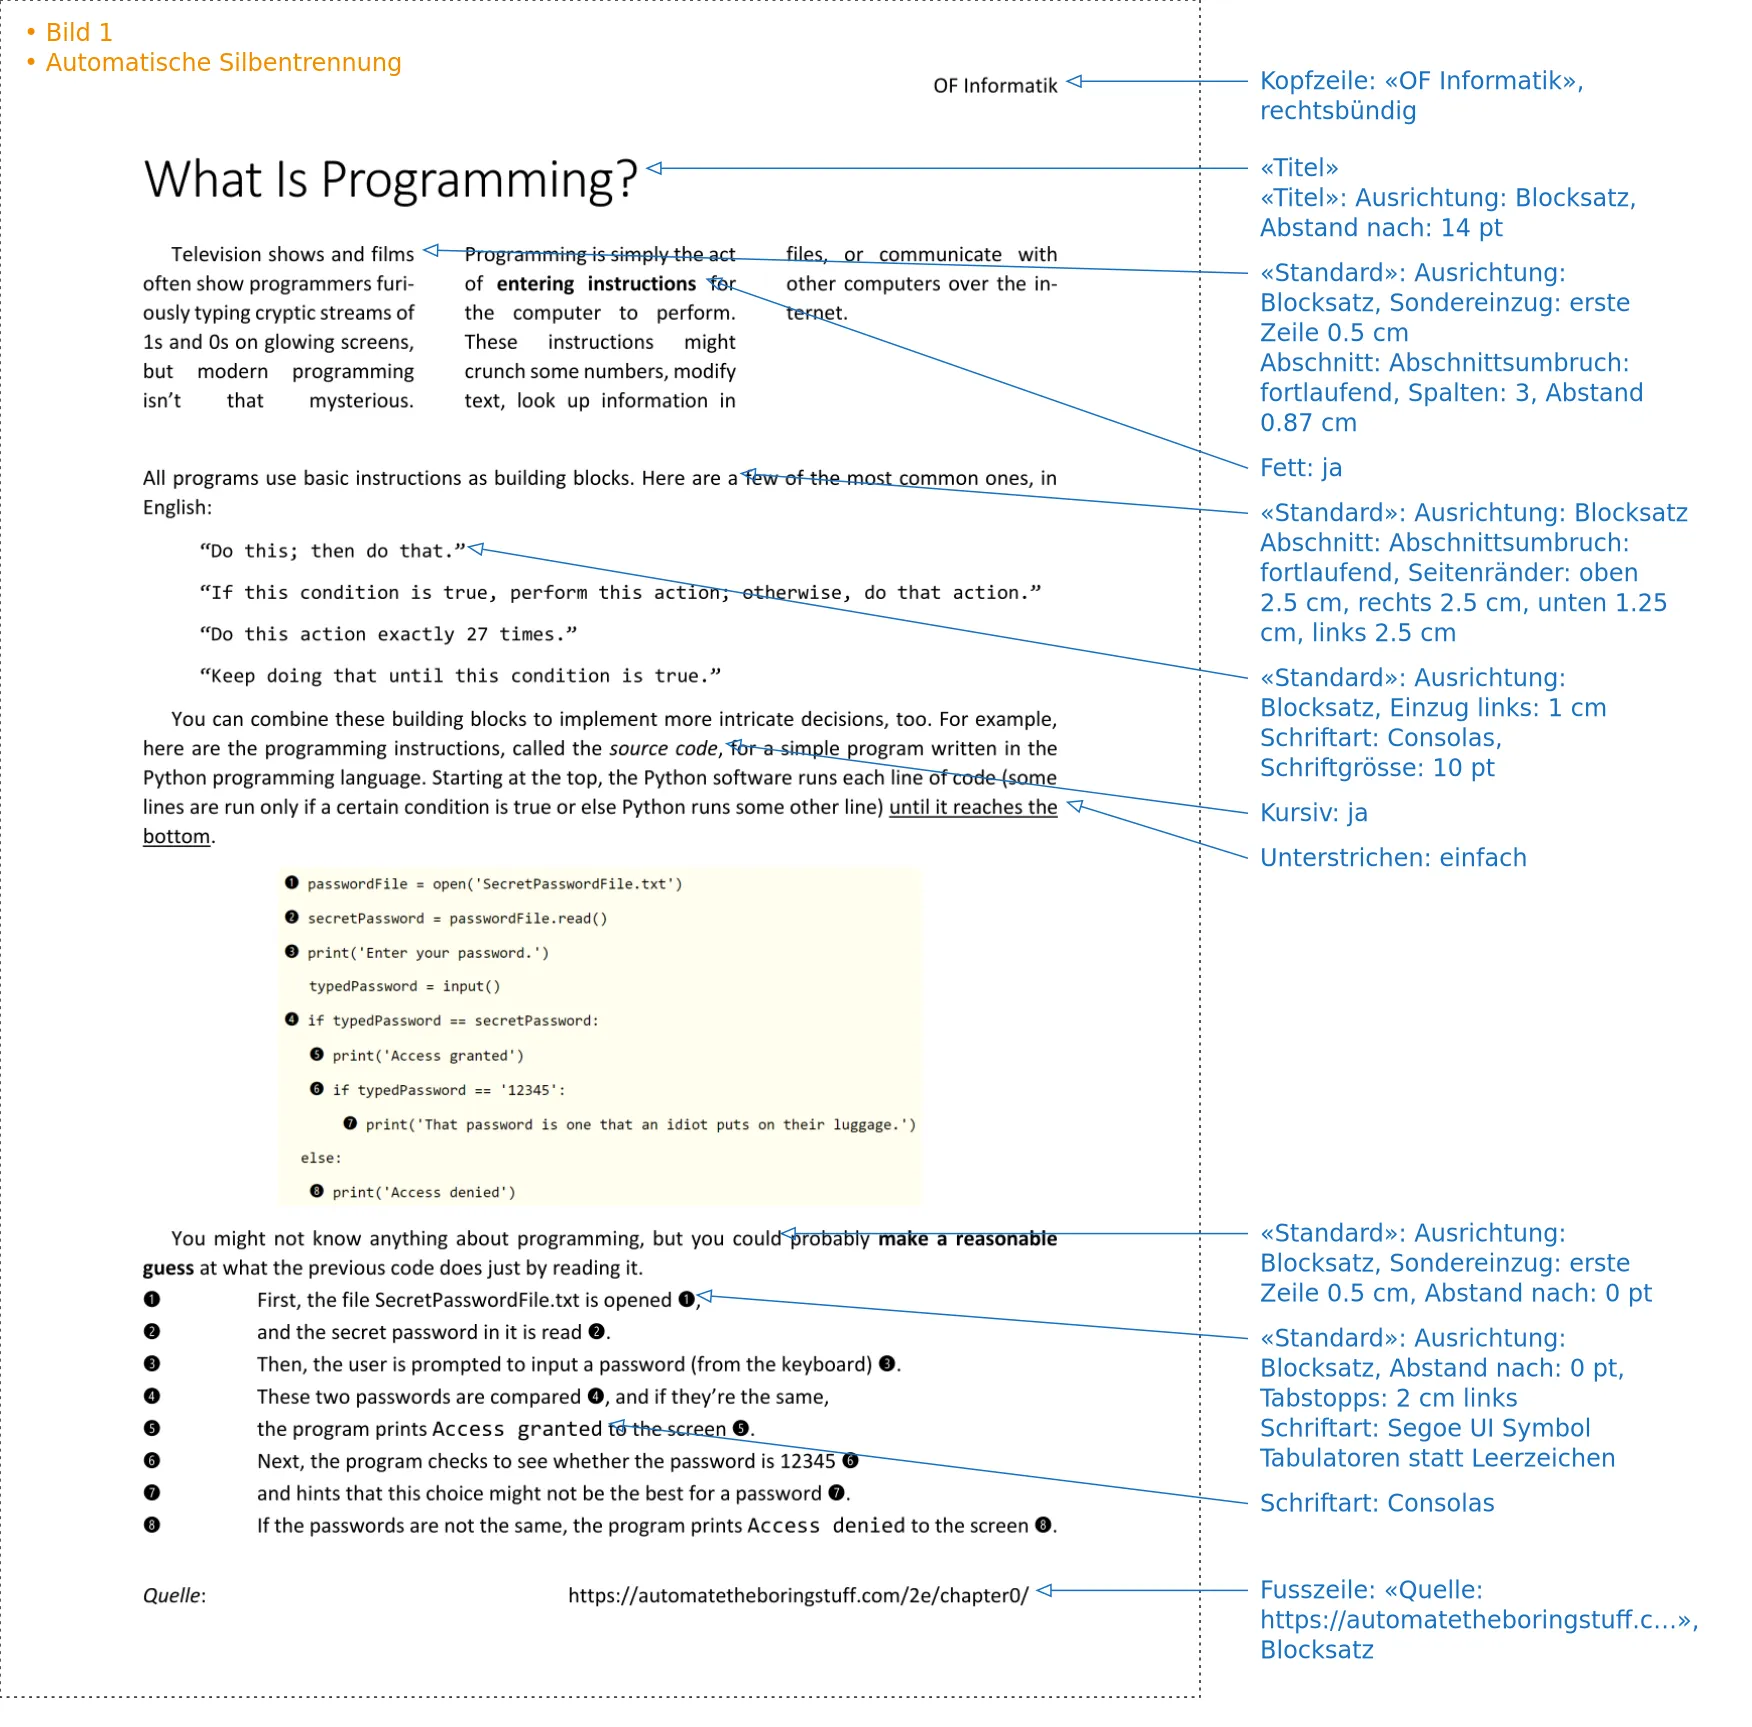
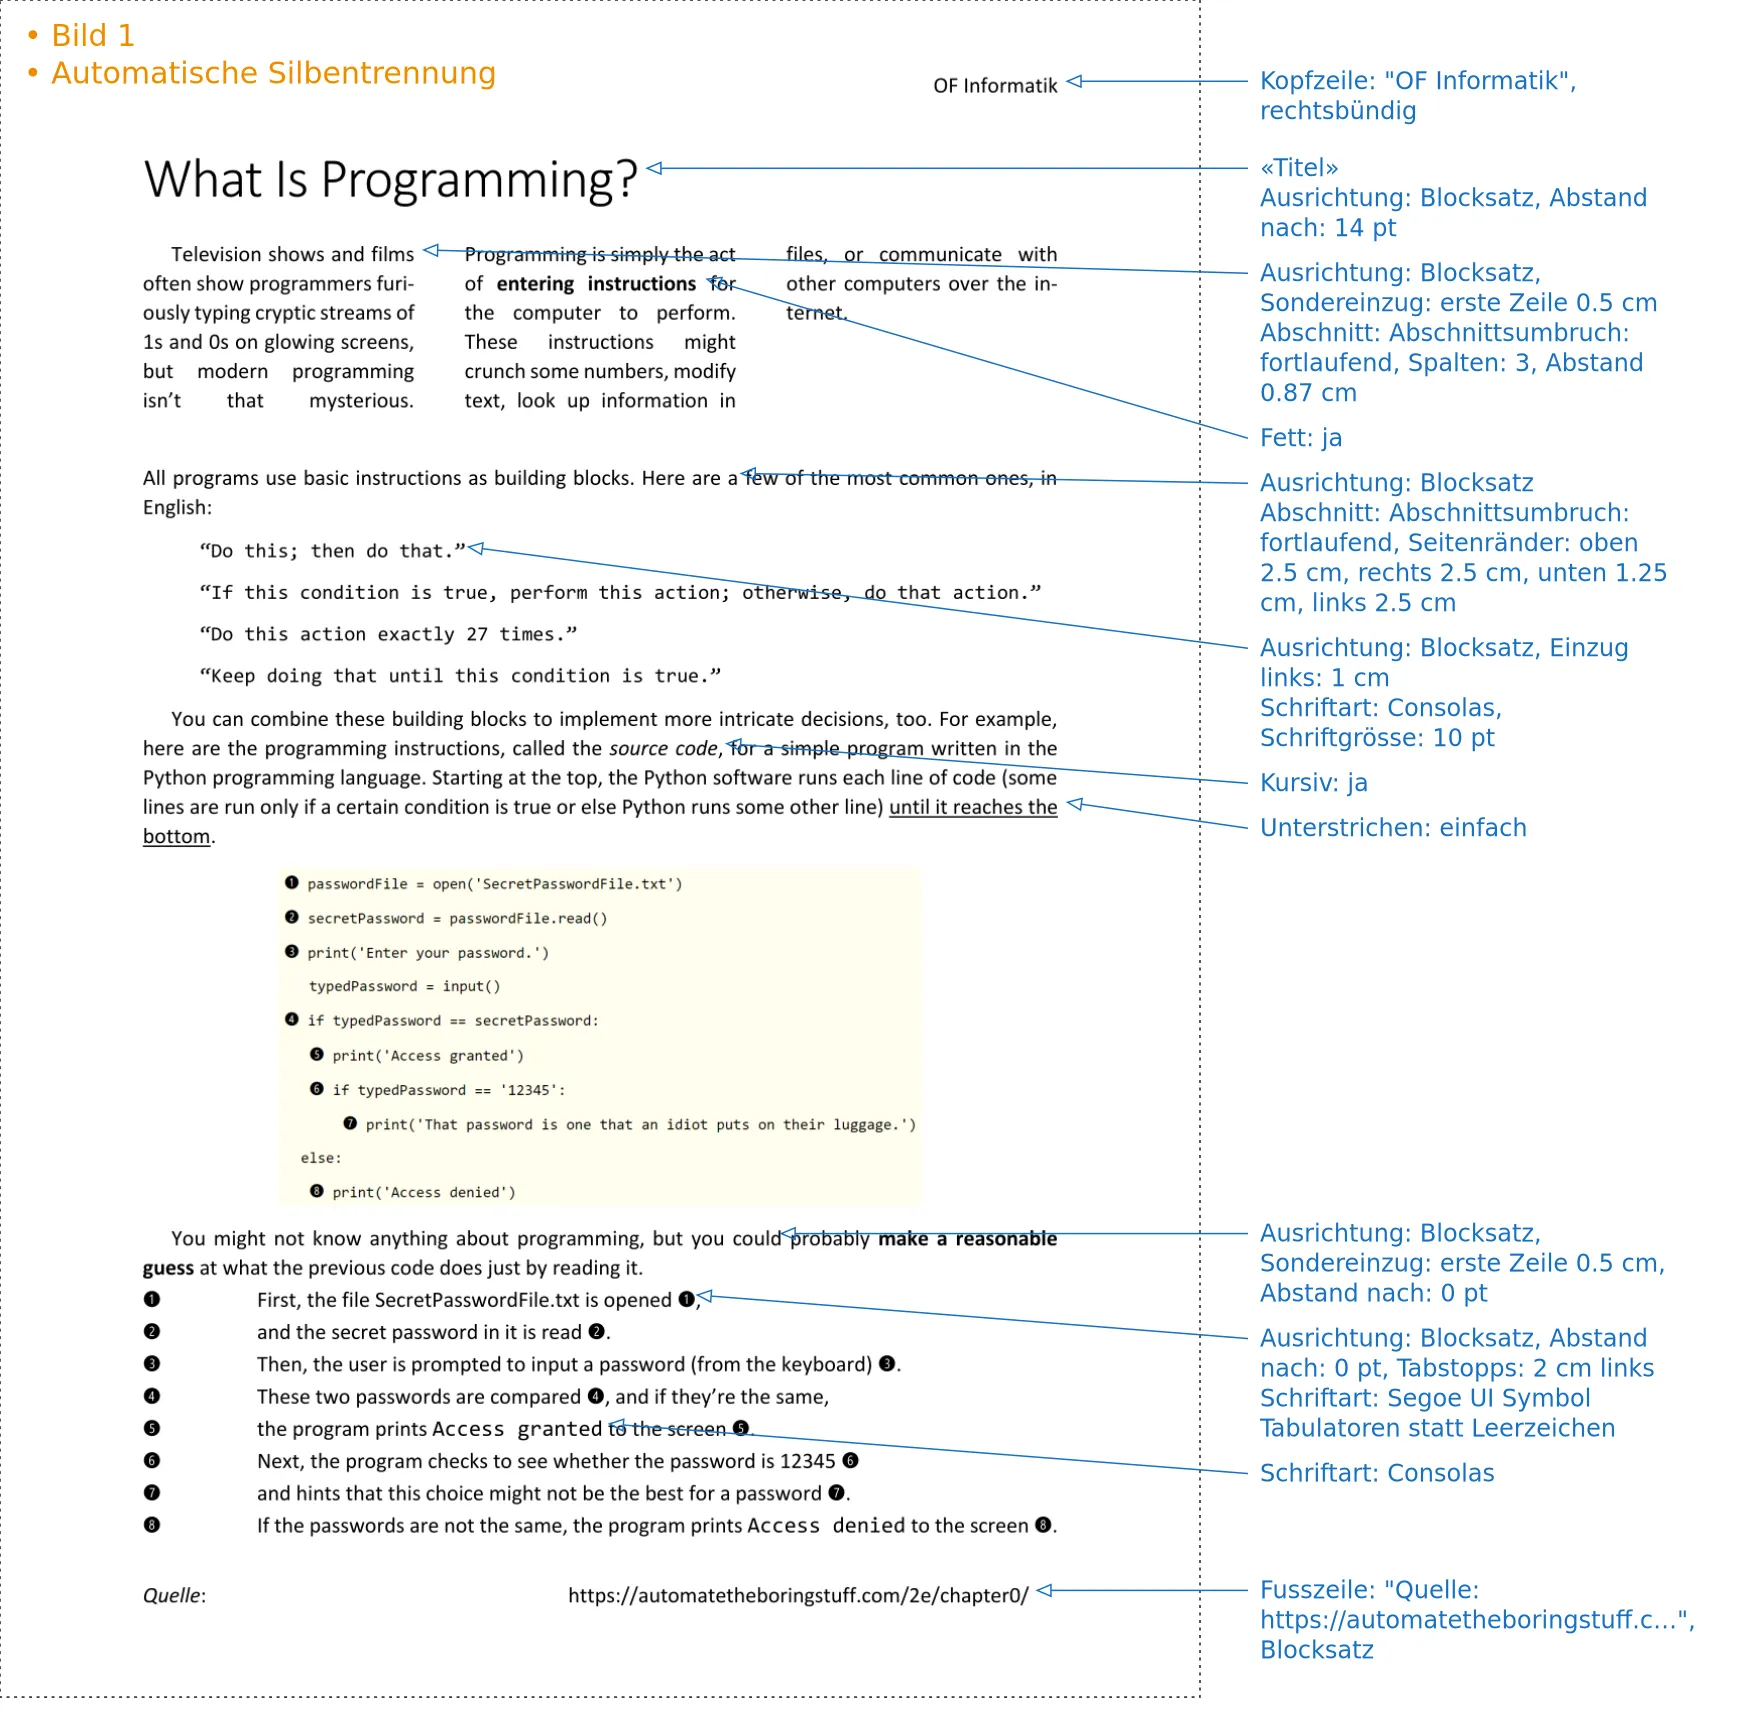
simplify annotation labels and quote text with "" instead of «»
Notes without a place on the page use font size 20. Labels name the
paragraph style only once, e.g. «Überschrift 1». «» is kept for styles.

diff --git a/packages/hfr/docx-grader/annotate/layoutPage.ts b/packages/hfr/docx-grader/annotate/layoutPage.ts
@@ -4,12 +4,14 @@ import { PdfPage } from './readPdf';
 
 /** The page is as wide as images the markup editor creates; labels go to a column on its right. */
 export const PAGE_WIDTH = EXCALIDRAW_MAX_WIDTH;
-export const FONT_SIZE = 16;
+const LABEL_FONT_SIZE = 16;
+// General notes are larger: they are not next to the text they are about.
+const NOTES_FONT_SIZE = 20;
 export const LINE_HEIGHT = 1.25;
 const LABEL_COLUMN_X = PAGE_WIDTH + 40;
 const MAX_LINE_LENGTH = 34;
 // Excalidraw measures text itself when the scene is opened; this estimate only spaces the labels.
-const CHAR_WIDTH = FONT_SIZE * 0.55;
+const CHAR_WIDTH_PER_FONT_SIZE = 0.55;
 const LABEL_GAP = 10;
 // General notes go into the top margin of the page, which is empty in most documents.
 const NOTES_POSITION = { x: 16, y: 12 };
@@ -17,6 +19,7 @@ const NOTES_MAX_LINE_LENGTH = 60;
 
 export interface PlacedText {
     lines: string[];
+    fontSize: number;
     x: number;
     y: number;
     width: number;
@@ -49,28 +52,33 @@ export const layoutPage = (page: PdfPage, annotations: Annotation[]): PageLayout
     let nextFreeY = 0;
     const labels = targeted.map(({ label, target }) => {
         const targetY = (target!.y + target!.height / 2) * scale;
-        const text = placeText(wrap(label, MAX_LINE_LENGTH), LABEL_COLUMN_X, 0);
-        const y = Math.max(targetY - (FONT_SIZE * LINE_HEIGHT) / 2, nextFreeY);
+        const text = placeText(wrap(label, MAX_LINE_LENGTH), LABEL_COLUMN_X, 0, LABEL_FONT_SIZE);
+        const firstLineCenter = (LABEL_FONT_SIZE * LINE_HEIGHT) / 2;
+        const y = Math.max(targetY - firstLineCenter, nextFreeY);
         nextFreeY = y + text.height + LABEL_GAP;
         const targetEnd: [number, number] = [(target!.x + target!.width) * scale + 6, targetY];
         return {
             ...text,
             y,
-            arrow: { from: [LABEL_COLUMN_X - 8, y + (FONT_SIZE * LINE_HEIGHT) / 2], to: targetEnd }
+            arrow: { from: [LABEL_COLUMN_X - 8, y + firstLineCenter], to: targetEnd }
         } satisfies PlacedLabel;
     });
 
     const noteLines = untargeted.flatMap(({ label }) => listItem(label, NOTES_MAX_LINE_LENGTH));
-    const notes = noteLines.length > 0 ? placeText(noteLines, NOTES_POSITION.x, NOTES_POSITION.y) : undefined;
+    const notes =
+        noteLines.length > 0
+            ? placeText(noteLines, NOTES_POSITION.x, NOTES_POSITION.y, NOTES_FONT_SIZE)
+            : undefined;
     return { height: page.heightPt * scale, labels, ...(notes ? { notes } : {}) };
 };
 
-const placeText = (lines: string[], x: number, y: number): PlacedText => ({
+const placeText = (lines: string[], x: number, y: number, fontSize: number): PlacedText => ({
     lines,
+    fontSize,
     x,
     y,
-    width: Math.max(...lines.map((line) => line.length)) * CHAR_WIDTH,
-    height: lines.length * FONT_SIZE * LINE_HEIGHT
+    width: Math.max(...lines.map((line) => line.length)) * fontSize * CHAR_WIDTH_PER_FONT_SIZE,
+    height: lines.length * fontSize * LINE_HEIGHT
 });
 
 /** A list item per line of the label, continuation lines indented. */

diff --git a/packages/hfr/docx-grader/tests/formatSource.test.ts b/packages/hfr/docx-grader/tests/formatSource.test.ts
@@ -34,7 +34,7 @@ describe('format source', () => {
         expect(spec.checks[0]).toMatchObject({ source: 'style' });
         expect(failuresOf(spec, await docModelOf(paragraph('Hallo'), normalStyle(JUSTIFIED)))).toEqual([]);
         expect(failuresOf(spec, await docModelOf(justifiedParagraph('Hallo')))).toEqual([
-            '«Hallo»: Ausrichtung: Blocksatz ist direkt formatiert statt über die Formatvorlage «Standard»'
+            '"Hallo": Ausrichtung: Blocksatz ist direkt formatiert statt über die Formatvorlage «Standard»'
         ]);
     });
 
@@ -68,7 +68,7 @@ describe('format source of characters and lists', () => {
             []
         );
         expect(failuresOf(spec, await docModelOf(body('<w:b/>'), STRONG_STYLE))).toEqual([
-            '«Access granted»: «granted»: Fett: ja ist direkt formatiert statt über eine Formatvorlage'
+            '"Access granted": "granted": Fett: ja ist direkt formatiert statt über eine Formatvorlage'
         ]);
     });
 
@@ -97,7 +97,7 @@ describe('typed numbering', () => {
     it('finds a heading whose number was typed by hand and reports it', async () => {
         const original = await loadFixture('21E_MachineLearning');
         const checks = extractChecks(original, DEFAULT_EQUIVALENT_CHARACTERS).filter(
-            (check) => check.kind === 'numbering' && check.title.includes('«1»')
+            (check) => check.kind === 'numbering' && check.title.includes('"1"')
         );
 
         const results = gradeDocument(
@@ -106,7 +106,7 @@ describe('typed numbering', () => {
         );
 
         expect(results[0].failures).toContain(
-            '«Begriffsklärung»: von Hand eingetippt, verwende die automatische Nummerierung 1, 2, 3 «1», Ebene 1'
+            '"Begriffsklärung": von Hand eingetippt, verwende die automatische Nummerierung 1, 2, 3 "1", Ebene 1'
         );
     });
 });

diff --git a/packages/hfr/docx-grader/tests/gradeDocument.test.ts b/packages/hfr/docx-grader/tests/gradeDocument.test.ts
@@ -105,7 +105,7 @@ describe('gradeDocument', () => {
 
         expect(result.failures).toHaveLength(8);
         expect(result.failures[0]).toBe(
-            '«➊ First, the file SecretPasswordFile.txt…»: Tabulator fehlt (0 statt 1), Leerzeichen ersetzen keinen Tabulator'
+            '"➊ First, the file SecretPasswordFile.txt…": Tabulator fehlt (0 statt 1), Leerzeichen ersetzen keinen Tabulator'
         );
     });
 
@@ -138,7 +138,7 @@ describe('gradeDocument', () => {
         const [result] = gradeDocument(spec, await loadFixture('ex01-what-is-programming-raw'));
 
         expect(result.failures).toEqual([
-            '«What Is Programming?»: Ausrichtung: linksbündig statt Blocksatz; Abstand nach: 8 pt statt 14 pt'
+            '"What Is Programming?": Ausrichtung: linksbündig statt Blocksatz; Abstand nach: 8 pt statt 14 pt'
         ]);
     });
 
@@ -149,7 +149,7 @@ describe('gradeDocument', () => {
         const results = gradeDocument(spec, await loadFixture('21E_MachineLearning_RAW'));
 
         expect(results[0].failures).toContain(
-            '«Zielsetzung»: Formatvorlage «Standard» statt «Überschrift 1»'
+            '"Zielsetzung": Formatvorlage «Standard» statt «Überschrift 1»'
         );
     });
 });

diff --git a/packages/hfr/docx-grader/annotate/renderPreview.ts b/packages/hfr/docx-grader/annotate/renderPreview.ts
@@ -1,6 +1,6 @@
 import type { CanvasRenderingContext2D as NodeCanvasContext } from 'canvas';
 import { LABEL_COLOR, NOTES_COLOR } from './excalidrawScene';
-import { FONT_SIZE, LINE_HEIGHT, PAGE_WIDTH, PageLayout, PlacedText } from './layoutPage';
+import { LINE_HEIGHT, PAGE_WIDTH, PageLayout, PlacedText } from './layoutPage';
 import { loadCanvas } from './optionalDependencies';
 
 const PADDING = 20;
@@ -27,7 +27,6 @@ export const renderPreview = async (layout: PageLayout, pagePng: Buffer, pixelRa
     context.strokeRect(0, 0, PAGE_WIDTH, layout.height);
     context.setLineDash([]);
 
-    context.font = `${FONT_SIZE}px sans-serif`;
     context.textBaseline = 'top';
     for (const label of layout.labels) {
         drawText(context, label, LABEL_COLOR);
@@ -43,8 +42,9 @@ export const renderPreview = async (layout: PageLayout, pagePng: Buffer, pixelRa
 
 const drawText = (context: NodeCanvasContext, text: PlacedText, color: string) => {
     context.fillStyle = color;
+    context.font = `${text.fontSize}px sans-serif`;
     text.lines.forEach((line, index) => {
-        context.fillText(line, text.x, text.y + index * FONT_SIZE * LINE_HEIGHT);
+        context.fillText(line, text.x, text.y + index * text.fontSize * LINE_HEIGHT);
     });
 };
 

diff --git a/packages/hfr/docx-grader/annotate/excalidrawScene.ts b/packages/hfr/docx-grader/annotate/excalidrawScene.ts
@@ -1,6 +1,6 @@
 import { backgroundImageScene } from '@tdev/excalidoc/ImageMarkupEditor/helpers/backgroundImageScene';
 import { getScale } from '@tdev/excalidoc/ImageMarkupEditor/helpers/customProps';
-import { FONT_SIZE, LINE_HEIGHT, PAGE_WIDTH, PageLayout, PlacedLabel, PlacedText } from './layoutPage';
+import { LINE_HEIGHT, PAGE_WIDTH, PageLayout, PlacedLabel, PlacedText } from './layoutPage';
 
 /** Excalidraw's blue and orange from its color picker. */
 export const LABEL_COLOR = '#1971c2';
@@ -68,7 +68,7 @@ const textElement = (id: string, placed: PlacedText, color: string) => {
         ...baseElement(id, 'text', placed.x, placed.y, placed.width, placed.height, color),
         text,
         originalText: text,
-        fontSize: FONT_SIZE,
+        fontSize: placed.fontSize,
         fontFamily: NORMAL_FONT_FAMILY,
         textAlign: 'left',
         verticalAlign: 'top',

diff --git a/packages/hfr/docx-grader/checks/kinds/numbering.ts b/packages/hfr/docx-grader/checks/kinds/numbering.ts
@@ -1,5 +1,5 @@
 import { Paragraph } from '../../docx/DocModel';
-import { hasTypedNumbering } from '../anchors';
+import { hasTypedNumbering, quote } from '../anchors';
 import { CheckBase, CheckKind, ParagraphAnchor } from '../Check';
 import { anchoredParagraphs, evaluateAnchors, groupBy } from './helpers';
 
@@ -76,6 +76,6 @@ const expectationOf = (paragraph: Paragraph): NumberingCheck['expect'] | undefin
 
 const describe = (expect: NumberingCheck['expect']) => {
     const format = FORMAT_LABELS[expect.format] ?? expect.format;
-    const pattern = expect.text ? ` «${expect.text.replace(/%\d/g, '1')}»` : '';
+    const pattern = expect.text ? ` ${quote(expect.text.replace(/%\d/g, '1'))}` : '';
     return `${format}${pattern}, Ebene ${expect.level + 1}`;
 };

diff --git a/packages/hfr/docx-grader/annotate/annotationsOf.ts b/packages/hfr/docx-grader/annotate/annotationsOf.ts
@@ -118,10 +118,14 @@ const firstPerPage = (targets: TextBox[]): TextBox[] => {
     });
 };
 
-/** Titles describe the expectation; anchors quoted in them are redundant next to an arrow. */
+/**
+ * Titles describe the expectation; anchors quoted in them are redundant next to an arrow, and so is
+ * the style a paragraph format is for: the paragraph style annotation names it, e.g. «Überschrift 1».
+ */
 const labelOf = (check: Check) => {
     return check.title
-        .replace(/^Abschnitt ab «[^»]*»: /, 'Abschnitt: ')
+        .replace(/^Abschnitt ab "[^"]*": /, 'Abschnitt: ')
+        .replace(/^«[^»]*»: /, '')
         .replace(/^Formatvorlage /, '')
         .replace(/^Zeichenformat: /, '');
 };

diff --git a/packages/hfr/docx-grader/checks/kinds/image.ts b/packages/hfr/docx-grader/checks/kinds/image.ts
@@ -112,8 +112,8 @@ const captionMismatches = (
     }
     if (expect.label && !actual.label) {
         failures.push('Beschriftung wurde nicht mit «Beschriftung einfügen» erstellt');
-    } else if (expect.label && actual.label !== expect.label) {
-        failures.push(`Bezeichnung «${actual.label}» statt «${expect.label}»`);
+    } else if (expect.label && actual.label && actual.label !== expect.label) {
+        failures.push(`Bezeichnung ${quote(actual.label)} statt ${quote(expect.label)}`);
     }
     return failures;
 };

diff --git a/packages/hfr/docx-grader/checks/anchors.ts b/packages/hfr/docx-grader/checks/anchors.ts
@@ -65,7 +65,7 @@ const indexBy = (paragraphs: Paragraph[], textOf: (paragraph: Paragraph) => stri
     return index;
 };
 
-/** A short quote of the anchored text for messages. */
+/** A short quote of the anchored text for messages; «» are for names of styles. */
 export const quote = (text: string, maxLength = 40) => {
-    return text.length > maxLength ? `«${text.slice(0, maxLength)}…»` : `«${text}»`;
+    return text.length > maxLength ? `"${text.slice(0, maxLength)}…"` : `"${text}"`;
 };
